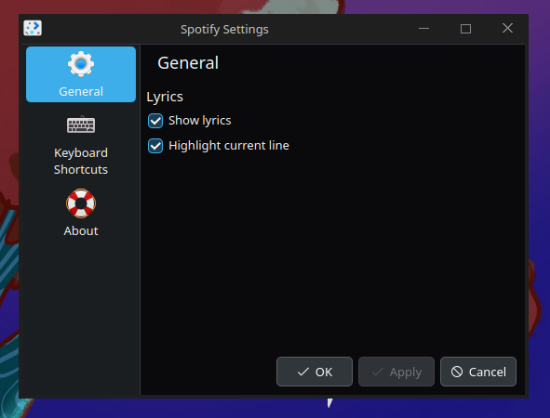
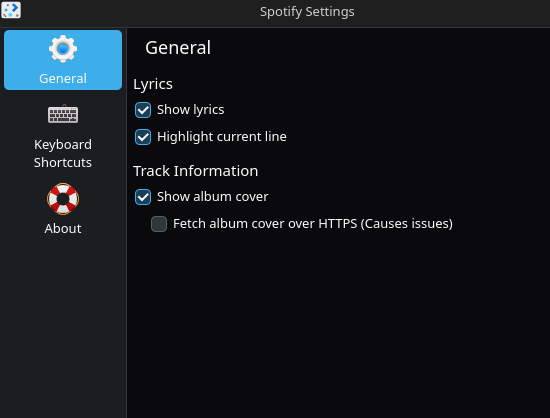
fix album cover loading issue, add option to hide the album cover, add fallback cover, 1.1.3

Changed region(s): [[0.0, 0.0, 1.0, 1.0]]

diff --git a/src/contents/ui/ConfigGeneral.qml b/src/contents/ui/ConfigGeneral.qml
@@ -5,12 +5,15 @@ import org.kde.kirigami as Kirigami
 import org.kde.kcmutils as KCM
 
 KCM.SimpleKCM {
+    property bool cfg_showLyricsDefault: true
+    property bool cfg_highlightCurrentLineDefault: false
+    property bool cfg_showAlbumCoverDefault: true
+    property bool cfg_fetchAlbumCoverHttpsDefault: false
 
     property alias cfg_showLyrics: showLyrics.checked
-    property bool cfg_showLyricsDefault: true
-
     property alias cfg_highlightCurrentLine: highlightCurrentLine.checked
-    property bool cfg_highlightCurrentLineDefault: true
+    property alias cfg_showAlbumCover: showAlbumCover.checked
+    property alias cfg_fetchAlbumCoverHttps: fetchAlbumCoverHttps.checked
 
     ColumnLayout {
         spacing: Kirigami.Units.smallSpacing
@@ -24,15 +27,45 @@ KCM.SimpleKCM {
         CheckBox {
             id: showLyrics
             text: "Show lyrics"
-            checked: cfg_showLyrics
+            checked: default_showLyrics
             Layout.alignment: Qt.AlignLeft
         }
 
         CheckBox {
             id: highlightCurrentLine
             text: "Highlight current line"
-            checked: cfg_highlightCurrentLine
+            checked: default_highlightCurrentLine
             Layout.alignment: Qt.AlignLeft
+        }
+
+        Kirigami.Heading {
+            text: "Track Information"
+            level: 3
+            Layout.alignment: Qt.AlignLeft
+            Layout.topMargin: Kirigami.Units.largeSpacing
+        }
+
+        CheckBox {
+            id: showAlbumCover
+            text: "Show album cover"
+            checked: default_showAlbumCover
+            Layout.alignment: Qt.AlignLeft
+        }
+
+        RowLayout {
+            Layout.alignment: Qt.AlignLeft
+            Layout.leftMargin: Kirigami.Units.largeSpacing
+            spacing: Kirigami.Units.smallSpacing
+
+            CheckBox {
+                id: fetchAlbumCoverHttps
+                text: "Fetch album cover over HTTPS (Causes issues)"
+                checked: default_fetchAlbumCoverHttps
+                ToolTip.text: "Use HTTPS to fetch album covers. This could cause issues with the current KDE Plasma version."
+                Layout.alignment: Qt.AlignLeft
+                enabled: showAlbumCover.checked
+                Layout.leftMargin: Kirigami.Units.largeSpacing
+            }
         }
     }
 }

diff --git a/src/contents/ui/main.qml b/src/contents/ui/main.qml
@@ -36,6 +36,12 @@ PlasmoidItem {
 
         onArtworkUrlChanged: {
             if (spotify.ready) {
+                let url = spotify.artworkUrl;
+                if (url && url.startsWith("https://") && !plasmoid.configuration.fetchAlbumCoverHttps) {
+                    url = url.replace("https://", "http://");
+                }
+                artwork.source = url || artwork.fallbackSource;
+
                 lyricsRenderer.lyrics = null;
                 lyricsLrcLib.fetchLyrics(spotify.track, spotify.artist, spotify.album).then(lyrics => {
                     lyricsRenderer.lyrics = lyrics;
@@ -108,9 +114,40 @@ PlasmoidItem {
             Layout.preferredHeight: parent.height
             Layout.rightMargin: 5
             Layout.fillWidth: false
-
-            source: spotify && spotify.ready && spotify.artworkUrl !== "" ? spotify.artworkUrl : "../assets/icon.svg"
             fillMode: Image.PreserveAspectFit
+
+            property string fallbackSource: "../assets/icon.svg"
+            property string lastAttemptedSource: ""
+
+            source: artwork.fallbackSource
+            visible: plasmoid.configuration.showAlbumCover
+
+            Timer {
+                id: fallbackTimer
+                interval: 1000
+                repeat: false
+                onTriggered: {
+                    console.warn("Failed to load artwork from", artwork.lastAttemptedSource)
+                    artwork.source = artwork.fallbackSource
+                }
+            }
+
+            onSourceChanged: {
+                if (source === fallbackSource) {
+                    fallbackTimer.stop()
+                } else {
+                    fallbackTimer.restart()
+                    lastAttemptedSource = source
+                }
+            }
+
+            onStatusChanged: {
+                switch (status) {
+                    case Image.Ready:
+                        fallbackTimer.stop()
+                        break
+                }
+            }
 
             /* Border radius */
             layer.enabled: true
